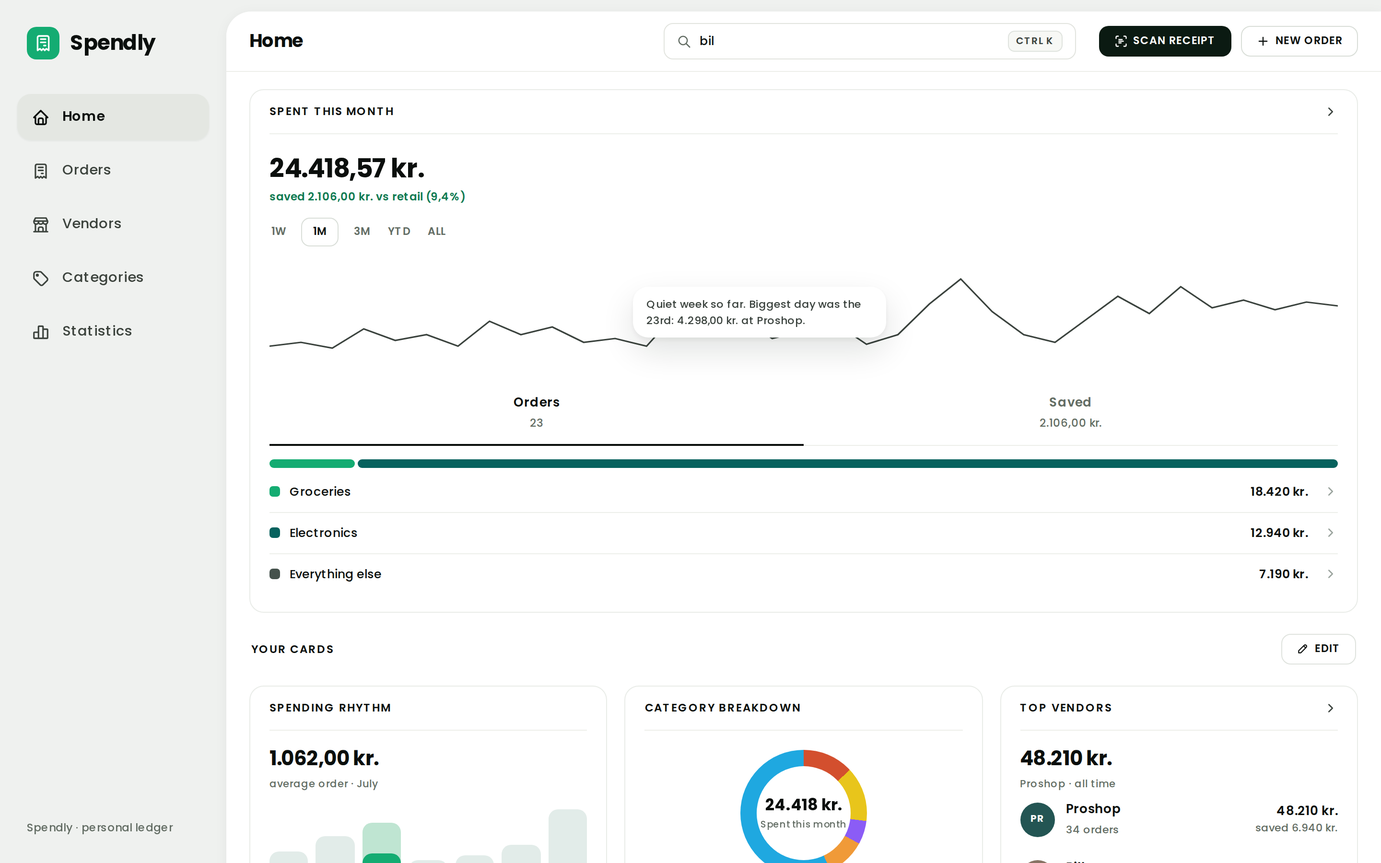
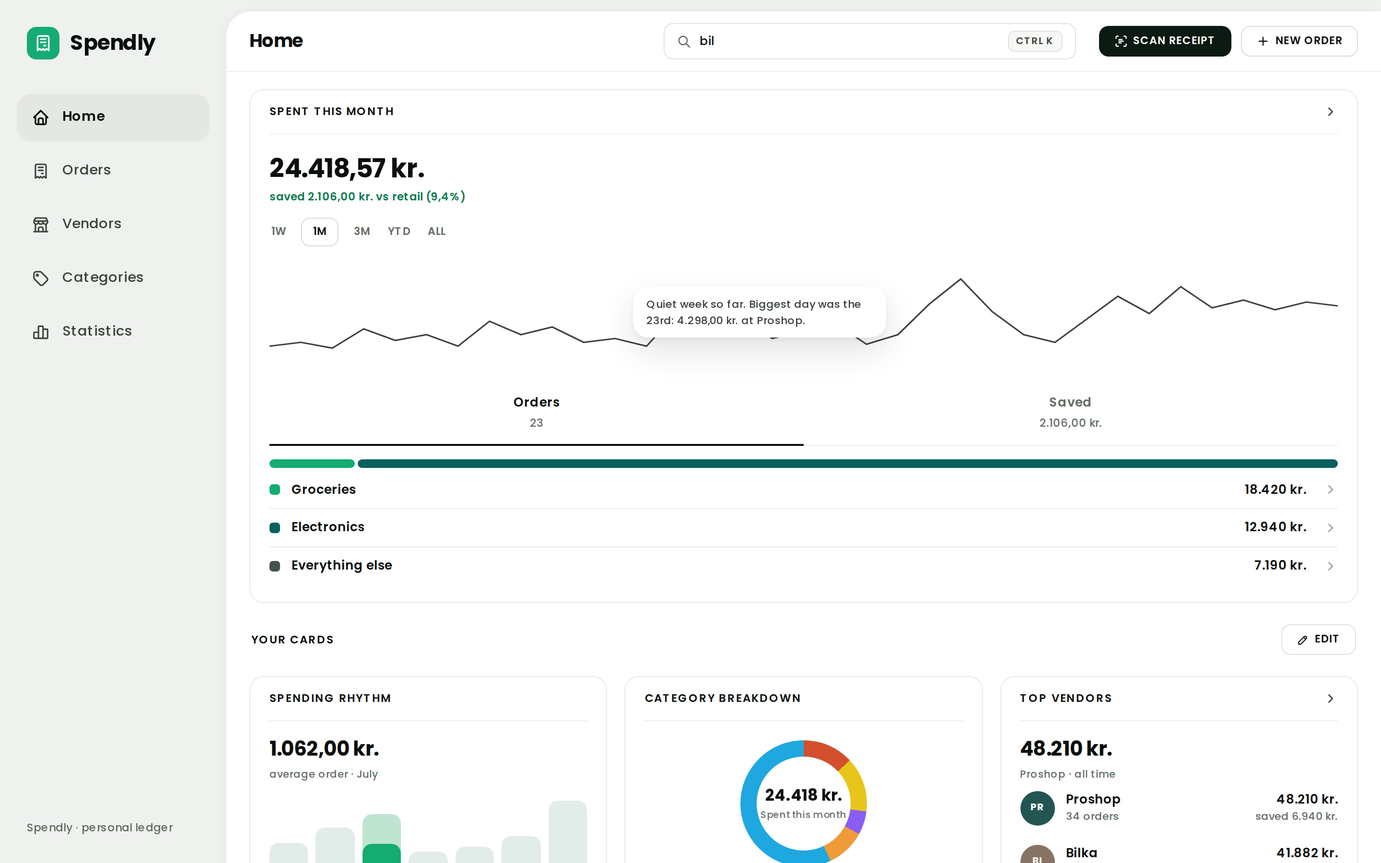
One data row: bring every list onto the Category breakdown spec
Five list families rendered the same component five ways. Measured across 15
states at 1440: gaps of 10, 12 and 13; paddings of 10, 11 and 12; tiles of 36,
40 and 44 with 16, 17 and 20px glyphs; and .entry-list-row's text pair standing
40.6px against everyone else's 34.8px -- the 5.8px that made Latest orders read
as differently spaced from Category breakdown.

.category-row is the template. The box is now written once, as one grouped
selector over .chart-legend-row, .card-tray-row, .category-row, .entry-list-row
and .item-row; each family's own block keeps only its differences. Restating
the box per family is what let them drift, so no family restates it.

- .entry-text loses line-height:1.45em. An em on a wrapper is a length computed
  once against its own inherited 14px, so a 13px name and an 11px meta were both
  struck on 20.3px leading. The unitless 1.45 falls through now: 18.85 + 15.95.
- .item-row-icon 40 -> 36 and --radius-page -> --radius-compact, glyph 16 -> 17.
  .document-thumb 44 -> 36, glyph 20 -> 17. A tile in a row is the row's tile.
- .chart-legend-row's label was the one label in the file with no element around
  it, so it took the row's 12.5px while every other list title read 13/600. It
  is .chart-legend-row-title now, 7 rows.
- .item-row-roomy deleted; its 12px padding was a fourth value for one property.

What stays a variant, per the row's own content and not its spacing: the colour
[…]

diff --git a/spendly.html b/spendly.html
@@ -268,6 +268,16 @@ a[data-go] { color:inherit; text-decoration:none; }
 .page[data-view="favourites"] [data-view-only="overview"],
 .page[data-view="manage"] [data-view-only="overview"] { display:none; }
 .card-header[data-go]:hover { background:var(--bg-row-hover); }
+/* One data row, written once. Five lists on this page are the same component -- a tile,
+   one or two lines of text, a right-hand column, sometimes a chevron -- and they had
+   drifted on every value that makes a set of lists read as one system: gaps of 10, 12
+   and 13, paddings of 10, 11 and 12, tiles of 36, 40 and 44, and a text pair 5.8px
+   taller on .entry-list-row than on the rest. Four near-misses is what four copies of
+   this declaration block buy; one grouped selector is what stops the fifth. What a row
+   still owns is what it holds, not how it is spaced -- the colour of the right-hand
+   figure, a round avatar in place of a tile, one line where another has two. README 5. */
+.chart-legend-row, .card-tray-row, .category-row, .entry-list-row, .item-row {
+	display:flex; align-items:center; gap:12px; padding:10px 0; }
 /* A row's highlight bleeds 10px past the body's 20px gutter at both ends, so the
    tint clears the first glyph and the chevron instead of stopping against them.
    The header above already lights up edge to edge; this is the same idea for a
@@ -338,11 +348,17 @@ a[data-go] { color:inherit; text-decoration:none; }
 .chart-split-bar { display:flex; gap:3px; height:9px; margin-top:14px; }
 .chart-split-bar-segment { border-radius:5px; }
 .chart-legend { margin-top:4px; }
-.chart-legend-row { display:flex; align-items:center; gap:10px; padding:12px 0; border-top:1px solid var(--border-divider); font-size:12.5px; }
+.chart-legend-row { border-top:1px solid var(--border-divider); }
 .chart-legend-row:first-child { border-top:0; }
+/* The swatch is this row's difference: a key to a plotted hue, not a tile holding a
+   glyph, so it keeps its 11px against the row spec's 36. */
 .chart-legend .chart-swatch { width:11px; height:11px; border-radius:3.5px; flex:none; }
 svg.chart { width:100%; display:block; }
-.chart-legend .amount { margin-left:auto; font-weight:600; }
+/* The label was a bare text node taking 12.5px off the row, which is how the one list
+   with no element around its own label ended up half a point under every other list's
+   title. It is a part with a name now, at the row spec's 13/600. README 5, 19. */
+.chart-legend-row-title { font-size:13px; font-weight:600; }
+.chart-legend .amount { margin-left:auto; font-size:13px; font-weight:600; }
 .chart-legend .chevron { color:var(--text-faint); margin-left:6px; }
 
 /* section head */
@@ -370,7 +386,7 @@ svg.chart { width:100%; display:block; }
 .icon-button-reorder:disabled { opacity:.35; cursor:default; }
 .icon-button-reorder.icon-button-reorder-remove { color:var(--donut-red); }
 .card-tray { margin-top:18px; }
-.card-tray-row { display:flex; align-items:center; gap:13px; padding:11px 0; border-top:1px solid var(--border-divider); }
+.card-tray-row { border-top:1px solid var(--border-divider); }
 .card-tray-row:first-child { border-top:0; }
 .card-tray-row-title { font-size:13px; font-weight:600; }
 .card-tray-row-meta { font-style:normal; font-size:11px; color:var(--text-muted); }
@@ -399,7 +415,7 @@ svg.chart { width:100%; display:block; }
 .donut .ring-centre-label { font-style:normal; font-size:9.5px; color:var(--text-muted); }
 .category-rows { margin-top:12px; display:grid; }
 .card-body > .category-rows:first-child { margin-top:0; }
-.category-row { display:flex; align-items:center; gap:12px; padding:10px 0; border-top:1px solid var(--border-divider); }
+.category-row { border-top:1px solid var(--border-divider); }
 .category-row:first-child { border-top:0; }
 .category-icon { width:36px; height:36px; border-radius:var(--radius-compact); display:grid; place-items:center; color:#fff; flex:none; }
 .category-icon svg.icon { width:17px; height:17px; stroke-width:2; }
@@ -437,24 +453,18 @@ svg.chart { width:100%; display:block; }
 .chart-series-key .chart-series-key-swatch { width:9px; height:9px; border-radius:3px; flex:none; }
 .entry-list { margin-top:8px; }
 .entry-list .list-heading { font-size:11.5px; color:var(--text-muted); font-weight:500; margin:10px 0 2px; }
-/* One row spec, not four near-misses. This row and .category-row are the same
-   component -- tile, two lines of text, an amount, sometimes a chevron -- and they had
-   drifted apart on every value they own: gap 11 against 12, padding 7 against 10, tile
-   34 against 36, and 12.5/10/12.5 type against 13/11/13. .item-row already carried
-   10px and 13/11/13 too, so the pair below is the tally and this row was the outlier.
-   S19. */
-.entry-list-row { display:flex; align-items:center; gap:12px; padding:10px 0; }
 /* The fill is written per avatar in the markup, and it is a text background, not a
    swatch -- these initials are white at 10px/700, so every value has to clear 4.5:1
    against white. Four of the seven were the donut's chart hues, which are picked to
    separate ring segments and reached 2.24:1 under type. S2, S18. */
 .entry-list .entry-avatar { width:36px; height:36px; border-radius:50%; display:grid; place-items:center; color:#fff; font-size:10px; font-weight:700; flex:none; }
-/* The name sat over the meta on a <br>, so both lines took their height from the
-   wrapper's own 14px strut. Each line is its own block now, and the inherited unitless
-   1.45 would resolve against its own font-size instead -- 40.6px of pair becomes 32.6px
-   and every row holding one lifts 8px. A length computes here once, and is what the
-   two lines inherit. S19. */
-.entry-list .entry-text { line-height:1.45em; }
+/* No line-height here. Pinning the wrapper at 1.45em computed one length off its own
+   inherited 14px -- 20.3px -- and handed it to both lines, so a 13px name and an 11px
+   meta were struck on the same 20.3px leading and the pair stood 40.6px tall. Every
+   other list lets the unitless 1.45 resolve against each line's own size, 18.85 + 15.95
+   = 34.8px, and the 5.8px was the whole of "Latest orders is spaced differently from
+   Category breakdown". The value was inherited from a <br> layout that has been gone
+   since S19; keeping it kept that layout's leading. README 5. */
 .entry-list .entry-name { font-size:13px; font-weight:600; }
 .entry-list .entry-meta { font-size:11px; color:var(--text-muted); }
 .entry-list .amount { margin-left:auto; text-align:right; font-size:13px; font-weight:600; color:var(--text-positive); white-space:nowrap; flex:none; }
@@ -482,13 +492,11 @@ svg.chart { width:100%; display:block; }
 .page.is-on { display:grid; grid-template-columns:minmax(0,1fr); gap:18px; }
 .segmented { display:inline-flex; gap:2px; padding:4px; background:#F1F2EE; border:1px solid #E5E7E2; border-radius:14px; width:max-content; }
 .inset-panel { background:#F2F4F1; border-radius:var(--radius-page); padding:8px 14px; display:grid; }
-.item-row { display:flex; align-items:center; gap:13px; padding:10px 0; }
-.item-row-roomy { padding:12px 0; }
 .item-row > div:has(.item-row-title) { min-width:0; }
 .item-row > span:not(:has(.item-row-title)) { flex:none; }
 .item-row-title, .item-row-meta { overflow-wrap:anywhere; }
-.item-row .item-row-icon { width:40px; height:40px; border-radius:var(--radius-page); background:#DFF0E6; color:#12A56B; display:grid; place-items:center; font-size:14px; font-weight:700; flex:none; }
-.item-row .item-row-icon svg.icon { width:16px; height:16px; }
+.item-row .item-row-icon { width:36px; height:36px; border-radius:var(--radius-compact); background:#DFF0E6; color:#12A56B; display:grid; place-items:center; font-size:14px; font-weight:700; flex:none; }
+.item-row .item-row-icon svg.icon { width:17px; height:17px; }
 /* The drag handle was a bare <span> styling itself, down to a var(--text-faint,#9AA39B)
    whose fallback had drifted a digit from the token it falls back to. */
 .item-row .item-row-grip { color:var(--text-faint); cursor:grab; }
@@ -605,8 +613,10 @@ svg.chart { width:100%; display:block; }
 .document-preview svg { width:46px; height:46px; stroke:currentColor; fill:none; stroke-width:1.6; stroke-linecap:round; stroke-linejoin:round; }
 .chip-status { display:inline-flex; align-items:center; gap:7px; height:28px; padding:0 12px; border-radius:9px; background:#DFF3EA; color:var(--text-positive); font-size:11.5px; font-weight:600; }
 .chip-status::before { content:""; width:6px; height:6px; border-radius:50%; background:#14AC72; }
-.document-thumb { width:44px; height:44px; border-radius:var(--radius-compact); display:grid; place-items:center; color:#7C867E; flex:none; background:#EFF3EE; }
-.document-thumb svg.icon { width:20px; height:20px; }
+/* A thumbnail in a list row is the row's tile, so it is the row spec's tile: 36 and
+   --radius-compact, not a 44px box of its own. It only ever appears inside .item-row. */
+.document-thumb { width:36px; height:36px; border-radius:var(--radius-compact); display:grid; place-items:center; color:#7C867E; flex:none; background:#EFF3EE; }
+.document-thumb svg.icon { width:17px; height:17px; }
 /* combobox: the system's replacement for every native select.
    Searchable, grouped, with a create action at the foot. */
 .combobox { position:relative; }
@@ -1030,9 +1040,9 @@ svg.icon.chevron-icon { width:14px; height:14px; }
 							<span class="chart-split-bar-segment" style="width:92%; background:var(--teal)"></span>
 						</div>
 						<div class="chart-legend">
-							<a href="#" class="chart-legend-row" data-go="orders2"><span class="chart-swatch" style="background:var(--green)"></span>Groceries<span class="amount tabular-figures">18.420 kr.</span><span class="chevron"><svg class="icon" viewBox="0 0 24 24"><path d="M9 6l6 6l-6 6"></path></svg></span></a>
-							<a href="#" class="chart-legend-row" data-go="orders2"><span class="chart-swatch" style="background:var(--teal)"></span>Electronics<span class="amount tabular-figures">12.940 kr.</span><span class="chevron"><svg class="icon" viewBox="0 0 24 24"><path d="M9 6l6 6l-6 6"></path></svg></span></a>
-							<a href="#" class="chart-legend-row" data-go="orders2"><span class="chart-swatch" style="background:#45524C"></span>Everything else<span class="amount tabular-figures">7.190 kr.</span><span class="chevron"><svg class="icon" viewBox="0 0 24 24"><path d="M9 6l6 6l-6 6"></path></svg></span></a>
+							<a href="#" class="chart-legend-row" data-go="orders2"><span class="chart-swatch" style="background:var(--green)"></span><span class="chart-legend-row-title">Groceries</span><span class="amount tabular-figures">18.420 kr.</span><span class="chevron"><svg class="icon" viewBox="0 0 24 24"><path d="M9 6l6 6l-6 6"></path></svg></span></a>
+							<a href="#" class="chart-legend-row" data-go="orders2"><span class="chart-swatch" style="background:var(--teal)"></span><span class="chart-legend-row-title">Electronics</span><span class="amount tabular-figures">12.940 kr.</span><span class="chevron"><svg class="icon" viewBox="0 0 24 24"><path d="M9 6l6 6l-6 6"></path></svg></span></a>
+							<a href="#" class="chart-legend-row" data-go="orders2"><span class="chart-swatch" style="background:#45524C"></span><span class="chart-legend-row-title">Everything else</span><span class="amount tabular-figures">7.190 kr.</span><span class="chevron"><svg class="icon" viewBox="0 0 24 24"><path d="M9 6l6 6l-6 6"></path></svg></span></a>
 						</div>
 					</div>
 				</section>
@@ -1558,10 +1568,10 @@ svg.icon.chevron-icon { width:14px; height:14px; }
 					<div class="card-header"><span class="section-label">Items · 4</span><span class="field-help tabular-figures">4.249,00 kr.</span></div>
 					<div class="card-divider"></div>
 					<div class="card-body card-body-tight">
-						<div class="item-row item-row-roomy"><span class="document-thumb" aria-hidden="true"><svg class="icon" viewBox="0 0 24 24"><path d="M15 8h.01 M3 6a3 3 0 0 1 3 -3h12a3 3 0 0 1 3 3v12a3 3 0 0 1 -3 3h-12a3 3 0 0 1 -3 -3v-12 M3 16l5 -5c.928 -.893 2.072 -.893 3 0l5 5 M14 14l1 -1c.928 -.893 2.072 -.893 3 0l3 3"></path></svg></span><div><div class="item-row-title">Dell UltraSharp U2723QE 27 tommer</div><div class="item-row-meta">1 × 3.199,00 kr.</div></div><span class="amount tabular-figures">3.199,00 kr.</span></div>
-						<div class="item-row item-row-roomy"><span class="document-thumb" aria-hidden="true"><svg class="icon" viewBox="0 0 24 24"><path d="M15 8h.01 M3 6a3 3 0 0 1 3 -3h12a3 3 0 0 1 3 3v12a3 3 0 0 1 -3 3h-12a3 3 0 0 1 -3 -3v-12 M3 16l5 -5c.928 -.893 2.072 -.893 3 0l5 5 M14 14l1 -1c.928 -.893 2.072 -.893 3 0l3 3"></path></svg></span><div><div class="item-row-title">Logitech MX Master 3S</div><div class="item-row-meta">1 × 749,00 kr. · Replaces the one that drowned in coffee</div></div><span class="amount tabular-figures">749,00 kr.</span></div>
-						<div class="item-row item-row-roomy"><span class="document-thumb" aria-hidden="true"><svg class="icon" viewBox="0 0 24 24"><path d="M15 8h.01 M3 6a3 3 0 0 1 3 -3h12a3 3 0 0 1 3 3v12a3 3 0 0 1 -3 3h-12a3 3 0 0 1 -3 -3v-12 M3 16l5 -5c.928 -.893 2.072 -.893 3 0l5 5 M14 14l1 -1c.928 -.893 2.072 -.893 3 0l3 3"></path></svg></span><div><div class="item-row-title">USB-C dock, 6 porte</div><div class="item-row-meta">1 × 249,00 kr.</div></div><span class="amount tabular-figures">249,00 kr.</span></div>
-						<div class="item-row item-row-roomy"><span class="document-thumb" aria-hidden="true"><svg class="icon" viewBox="0 0 24 24"><path d="M15 8h.01 M3 6a3 3 0 0 1 3 -3h12a3 3 0 0 1 3 3v12a3 3 0 0 1 -3 3h-12a3 3 0 0 1 -3 -3v-12 M3 16l5 -5c.928 -.893 2.072 -.893 3 0l5 5 M14 14l1 -1c.928 -.893 2.072 -.893 3 0l3 3"></path></svg></span><div><div class="item-row-title">Kabelbindere, 100 stk.</div><div class="item-row-meta">2 × 26,00 kr.</div></div><span class="amount tabular-figures">52,00 kr.</span></div>
+						<div class="item-row"><span class="document-thumb" aria-hidden="true"><svg class="icon" viewBox="0 0 24 24"><path d="M15 8h.01 M3 6a3 3 0 0 1 3 -3h12a3 3 0 0 1 3 3v12a3 3 0 0 1 -3 3h-12a3 3 0 0 1 -3 -3v-12 M3 16l5 -5c.928 -.893 2.072 -.893 3 0l5 5 M14 14l1 -1c.928 -.893 2.072 -.893 3 0l3 3"></path></svg></span><div><div class="item-row-title">Dell UltraSharp U2723QE 27 tommer</div><div class="item-row-meta">1 × 3.199,00 kr.</div></div><span class="amount tabular-figures">3.199,00 kr.</span></div>
+						<div class="item-row"><span class="document-thumb" aria-hidden="true"><svg class="icon" viewBox="0 0 24 24"><path d="M15 8h.01 M3 6a3 3 0 0 1 3 -3h12a3 3 0 0 1 3 3v12a3 3 0 0 1 -3 3h-12a3 3 0 0 1 -3 -3v-12 M3 16l5 -5c.928 -.893 2.072 -.893 3 0l5 5 M14 14l1 -1c.928 -.893 2.072 -.893 3 0l3 3"></path></svg></span><div><div class="item-row-title">Logitech MX Master 3S</div><div class="item-row-meta">1 × 749,00 kr. · Replaces the one that drowned in coffee</div></div><span class="amount tabular-figures">749,00 kr.</span></div>
+						<div class="item-row"><span class="document-thumb" aria-hidden="true"><svg class="icon" viewBox="0 0 24 24"><path d="M15 8h.01 M3 6a3 3 0 0 1 3 -3h12a3 3 0 0 1 3 3v12a3 3 0 0 1 -3 3h-12a3 3 0 0 1 -3 -3v-12 M3 16l5 -5c.928 -.893 2.072 -.893 3 0l5 5 M14 14l1 -1c.928 -.893 2.072 -.893 3 0l3 3"></path></svg></span><div><div class="item-row-title">USB-C dock, 6 porte</div><div class="item-row-meta">1 × 249,00 kr.</div></div><span class="amount tabular-figures">249,00 kr.</span></div>
+						<div class="item-row"><span class="document-thumb" aria-hidden="true"><svg class="icon" viewBox="0 0 24 24"><path d="M15 8h.01 M3 6a3 3 0 0 1 3 -3h12a3 3 0 0 1 3 3v12a3 3 0 0 1 -3 3h-12a3 3 0 0 1 -3 -3v-12 M3 16l5 -5c.928 -.893 2.072 -.893 3 0l5 5 M14 14l1 -1c.928 -.893 2.072 -.893 3 0l3 3"></path></svg></span><div><div class="item-row-title">Kabelbindere, 100 stk.</div><div class="item-row-meta">2 × 26,00 kr.</div></div><span class="amount tabular-figures">52,00 kr.</span></div>
 						<div class="card-divider" style="margin:6px 0 0"></div>
 						<div class="summary-row">Items subtotal<span class="summary-row-value tabular-figures">4.249,00 kr.</span></div>
 						<div class="summary-row">Shipping<span class="summary-row-value tabular-figures">49,00 kr.</span></div>
@@ -1975,10 +1985,10 @@ svg.icon.chevron-icon { width:14px; height:14px; }
 					<div class="card-body spend-gauge-row">
 						<div class="spend-gauge"><span class="ring-centre"><span class="ring-centre-value tabular-figures">24.418 kr.</span><span class="ring-centre-label">July 2026</span></span></div>
 						<div class="chart-legend" style="flex:1;min-width:170px">
-							<a href="#" class="chart-legend-row" data-go="orders2"><span class="chart-swatch" style="background:var(--donut-blue)"></span>Groceries<span class="amount tabular-figures">18.420 kr.</span><span class="chevron"><svg class="icon" viewBox="0 0 24 24"><path d="M9 6l6 6l-6 6"></path></svg></span></a>
-							<a href="#" class="chart-legend-row" data-go="orders2"><span class="chart-swatch" style="background:var(--green)"></span>Electronics<span class="amount tabular-figures">12.940 kr.</span><span class="chevron"><svg class="icon" viewBox="0 0 24 24"><path d="M9 6l6 6l-6 6"></path></svg></span></a>
-							<a href="#" class="chart-legend-row" data-go="orders2"><span class="chart-swatch" style="background:var(--donut-yellow)"></span>Household<span class="amount tabular-figures">6.110 kr.</span><span class="chevron"><svg class="icon" viewBox="0 0 24 24"><path d="M9 6l6 6l-6 6"></path></svg></span></a>
-							<a href="#" class="chart-legend-row" data-go="orders2"><span class="chart-swatch" style="background:var(--donut-purple)"></span>Everything else<span class="amount tabular-figures">5.550 kr.</span><span class="chevron"><svg class="icon" viewBox="0 0 24 24"><path d="M9 6l6 6l-6 6"></path></svg></span></a>
+							<a href="#" class="chart-legend-row" data-go="orders2"><span class="chart-swatch" style="background:var(--donut-blue)"></span><span class="chart-legend-row-title">Groceries</span><span class="amount tabular-figures">18.420 kr.</span><span class="chevron"><svg class="icon" viewBox="0 0 24 24"><path d="M9 6l6 6l-6 6"></path></svg></span></a>
+							<a href="#" class="chart-legend-row" data-go="orders2"><span class="chart-swatch" style="background:var(--green)"></span><span class="chart-legend-row-title">Electronics</span><span class="amount tabular-figures">12.940 kr.</span><span class="chevron"><svg class="icon" viewBox="0 0 24 24"><path d="M9 6l6 6l-6 6"></path></svg></span></a>
+							<a href="#" class="chart-legend-row" data-go="orders2"><span class="chart-swatch" style="background:var(--donut-yellow)"></span><span class="chart-legend-row-title">Household</span><span class="amount tabular-figures">6.110 kr.</span><span class="chevron"><svg class="icon" viewBox="0 0 24 24"><path d="M9 6l6 6l-6 6"></path></svg></span></a>
+							<a href="#" class="chart-legend-row" data-go="orders2"><span class="chart-swatch" style="background:var(--donut-purple)"></span><span class="chart-legend-row-title">Everything else</span><span class="amount tabular-figures">5.550 kr.</span><span class="chevron"><svg class="icon" viewBox="0 0 24 24"><path d="M9 6l6 6l-6 6"></path></svg></span></a>
 						</div>
 					</div>
 				</section>

diff --git a/README.md b/README.md
@@ -269,25 +269,48 @@ content such as photos and long values renders in list rows and panels, never in
 
 ### One data row
 
-A tile, two lines of text, an amount, sometimes a chevron. Every list of records is that row, and it
-is one spec:
+A tile, one or two lines of text, a right-hand column, sometimes a chevron. Every list of records is
+that row, and it is one spec — **`.category-row` is the template**:
 
 | | |
 | --- | --- |
 | **Row** | `padding: 10px 0`, `gap: 12px`, `align-items: center` |
-| **Tile** | 36×36, `var(--radius-compact)` |
-| **Type** | title 13px/600 · meta 11px `--text-muted` · amount 13px/600 |
+| **Tile** | 36×36, `var(--radius-compact)`, 17px glyph |
+| **Type** | title 13px/600 · meta 11px `--text-muted` · right-hand figure 13px/600 |
+| **Leading** | inherited unitless `1.45`, resolving against each line's own size — 18.85 + 15.95 = 34.8px of pair |
 
-`.category-row` and `.entry-list-row` are the same component and had drifted apart on every value
-they own — gap 12 against 11, padding 10 against 7, tile 36 against 34, and 13/11/13 type against
-12.5/10/12.5 — which reads as two components until the rows are measured side by side, and then it
-reads as neither one being decided. `.item-row` already carried 10px and 13/11/13, so two of the
-three agreed and the third was the outlier; the tile radius went the same way, `--radius-compact` in
-16 places against a literal `11px` in 4. **Count before you match**, and match the tally rather than
-the neighbour you happened to open ([ground rules](#ground-rules)).
+The spec is **written once**, as one grouped selector over `.chart-legend-row`, `.card-tray-row`,
+`.category-row`, `.entry-list-row` and `.item-row`. Four copies of a declaration block is what four
+near-misses are made of: these five had drifted to gaps of 10, 12 and 13, paddings of 10, 11 and 12,
+tiles of 36, 40 and 44, and one list's text pair standing 5.8px taller than the rest. Restating the
+box per family is what let that happen, so no family restates it.
+
+**What a row still owns is what it holds, not how it is spaced.** These are variants, not drift:
+
+- **the colour of the right-hand figure** — `--text` on most, `--text-positive` where the figure is a saving
+- **a round avatar in place of a tile** — `.entry-avatar` is initials on a fill, 36×36 at `border-radius:50%`
+- **one line where another has two**, and a swatch where another has a tile — the donut key is a
+  chart legend, so it keeps an 11px swatch and a single label
+- **a hairline between rows** — `.category-row`, `.chart-legend-row` and `.card-tray-row` carry
+  `border-top` and clear it on the first row; the two list families inside a card body do not
+
+**A bare text node is not a part, and takes the row's font-size instead of the spec's.** The donut
+key's label was the one label in the file with no element around it, so it read at the 12.5px the row
+declared for itself while every other list title read 13/600 — invisible to any rule keyed on a title
+class, because there was no title. It is `.chart-legend-row-title` now ([§19](#19-names-in-the-markup)).
+
+**A `line-height` in `em` on a wrapper is a length, and a length does not re-resolve.** `.entry-text`
+was pinned at `1.45em`, computed once against its own inherited 14px — 20.3px — and handed to both a
+13px name and an 11px meta, so the pair stood 40.6px against every other list's 34.8px. That 5.8px was
+the whole of "Latest orders is spaced differently from Category breakdown". The value was inherited
+from a `<br>` layout removed in S19; keeping it kept that layout's leading. Let the unitless `1.45`
+fall through.
 
 `.order-row` is deliberately outside this: it is the page's own table, on its own denser scale
 (13.5/11.5, `padding: 12px 0`) and stacking to `grid-template-areas` on a phone ([§15](#15-responsive-containment)).
+
+**Count before you match**, and match the tally rather than the neighbour you happened to open
+([ground rules](#ground-rules)).
 
 ## 6. Buttons
 
@@ -382,8 +405,11 @@ width (`width: max(100%, 560px)`) rather than inheriting the field's.
 What stays as text: `×` as a multiplication sign in prices ("2 × 89,95 kr."), `·` as a separator, `…`
 in truncated placeholder copy. That is typography, not iconography.
 
-**Sizes** run 12–20px by context: nav 19, form and toolbar buttons 14–15, chevrons 15, list-row tiles
-16–17, thumbnails 17–20, decorative panel marks 34–46 at stroke-width 1.6.
+**Sizes** run 12–20px by context: nav 19, form and toolbar buttons 14–15, chevrons 15, decorative
+panel marks 34–46 at stroke-width 1.6. **A list-row tile is 17**, thumbnail or not — the tile is the
+row spec's ([§5](#5-control-geometry)), so a glyph sitting in one takes the tile's size and not its
+own component's. `.item-row-icon` at 16 in a 40px tile and `.document-thumb` at 20 in a 44px one were
+two components' worth of tile geometry inside one row.
 
 > [!WARNING]
 > **Never set an icon's size in the markup.**
@@ -755,7 +781,8 @@ instance below shipped because a shape was copied from the reference without ask
   ([§10](#10-cards)): the two lines a pixel apart were the defect, not the colour match.
 - **A tight top belongs to the container, not to the row.** A row's own padding is the box its hover
   tint paints, so padding trimmed off a row to close a gap is padding the lit band loses on one side
-  and keeps on the other. `.entry-list-row` is `padding:7px 0` and the first row's top 7px was zeroed
+  and keeps on the other. `.entry-list-row` was `padding:7px 0` when this was found and is the row
+  spec's `10px 0` now ([§5](#5-control-geometry)); the first row's top 7px was zeroed
   to sit it under the card divider: the glyph in Orders' *Latest orders* then sat 3.30px below the
   band's top edge and 10.30px above its bottom, and the amount 11.23 and 18.23 — a band 7px heavier
   at the foot of the one row in the file that lights up. Take it off the container instead, where
@@ -875,7 +902,8 @@ container. Rules that follow:
   handle to 6px. Target the description (`.item-row > span:has(b)`) and give the rest `flex:none`.
 - Rows with fixed columns that cannot fit a phone stack instead — `.order-row` becomes two rows via
   `grid-template-areas`.
-- **Row content sits flush with the card's content box.** Six row types use `padding: Npx 0`; `.order-row`
+- **Row content sits flush with the card's content box.** Every row type uses `padding: Npx 0` — one
+  `10px 0` across the five that share the row spec ([§5](#5-control-geometry)); `.order-row`
   alone had `12px 6px` and sat 6px inside the header and footer above and below it. Likewise a
   trailing chevron column is `auto`, not a fixed 26px around a 15px glyph, or the row stops short of
   the card edge.
@@ -1054,8 +1082,12 @@ Three kinds of name, and the shape of the name tells you which one you are looki
 - **A base is only worth having when the variants share more than they override.** The four chips
   share two declarations and differ on eight, so they stay four components. Forcing a base there
   would make four different badges look like one family, which is a worse lie than the duplication.
-  The six row components fail the same test: `display:flex` and `align-items:center` are all they
-  share, against gaps of 10/11/12/13, paddings of 7/10/11/12 and a hairline four of them do not have.
+  The row components used to fail the same test and no longer do — `display:flex`,
+  `align-items:center`, one gap and one padding is the whole of the box, and five of the six now
+  agree on all four ([§5](#5-control-geometry)). The test is worth re-running when a family is
+  edited, in both directions: what these five override is now a fill, a shape and a line count, and
+  a shared row spec earns its place exactly while that stays true. `.order-row` still fails it, and
+  stays out.
 - **A part carries its identifier in its name, not just in its selector.** `.entry-list-row`, never
   `.entry-list .row` -- the tally is 103 parts written bare against 47 scoped. A generic child name
   cannot be grepped: `class="row"` was 22 elements across two unrelated components that disagreed on

diff --git a/CLAUDE.md b/CLAUDE.md
@@ -84,6 +84,21 @@ and 49,584 removed for a change that moved nothing. Both runs hold the same elem
 order; number them in `querySelectorAll('*')` order, skip the element you inserted, and assert the
 tag matches at each position — the same walk then read 238 rect diffs, all in one place.
 
+Document order is not immune to the same trap, only cheaper to fix: seven `<span>`s wrapped around
+seven bare labels renumbered the tail of every state they appear in, and the walk came back with
+45,223 tag mismatches, 245 added and 6,285 text diffs on a change that touched five CSS rules. The
+tag assertion is what says so — an index diff with no tag check would have reported those 45,223 as
+geometry. Filter the inserted selector out of the record on both runs (`SKIP='.new-part'`) and the
+numbering realigns; the same walk then read 0 added, 0 removed, 0 tag mismatches and 0 text diffs.
+Skipping is safe only because the elements are new on one side; never skip an element that exists in
+both runs, or the diff stops covering it.
+
+**Freeze before you wait, not after.** The settle loop and the freeze are both required and the order
+between them is not free: a wait-for-stable-geometry loop started before the freeze samples the
+indeterminate progress bar forever and never returns. It does not fail — it hangs, with a browser
+open and nothing on stdout, which reads as "the walk is slow" for as long as you let it. Freeze,
+then settle, then freeze again for anything the settle woke.
+
 **Prove the harness is quiet before you trust its diff.** Freezing animations is not the whole of it:
 charts are drawn from JS and redrawn by a `ResizeObserver` when a hidden page is shown, and that
 callback lands after the click returns. Measuring straight after navigating raced it — two runs of a
@@ -159,6 +174,13 @@ machine, and check `docs/` only for the states and the sizes. When a change does
 where it was regenerated — a shot re-rendered elsewhere carries that machine's text with it, so the
 committed image changes far more than the edit did.
 
+**So measure the floor rather than assuming it.** The container that renders these shots is not
+always the wrong container: Chromium 141.0.7390.37 under the Playwright 1.56.1 bundle rendered the
+untouched file at 0 of 5,184,000 against all three committed shots, and a regeneration from there
+carries only the edit. One run of the unchanged file against `docs/` is what tells you which case you
+are in, and it costs a minute — claiming a shot is clean, and claiming it is unusable, are the same
+unverified claim in opposite directions.
+
 ## Uniformity
 
 Before adding a variant, grep for the pattern and match the tally, not the one neighbour in view. The
@@ -175,6 +197,20 @@ native icon nobody had looked at in a while.
 markup lines here carry several elements each, so a third of the job was invisible to the count that
 opened it. `grep -o 'pattern' file | wc -l` is the number of occurrences; `grep -c` is the number of
 lines holding at least one. Any tally that decides scope needs the first.
+
+**A shared value has to be deleted from every copy, not set in one more place.** Unifying five row
+families meant the grouped rule and then removing `display`, `align-items`, `gap` and `padding` from
+each family's own block — a rule added beside four survivors is a fifth near-miss with better
+intentions, and the cascade hides it wherever the two happen to agree. Read the count back
+(`document.querySelectorAll(sel).length` against the union of the families) and check the survivors
+declare only their differences.
+
+**Removing a declaration hands the property back to whatever was underneath.** `.chart-legend-row`
+lost its `font-size:12.5px` and the row went to the inherited 14px, which reached the swatch, the
+chevron, the icon and its path — 245 elements' worth of computed-style diff, all of it inert, since
+every one of those is sized in px. Inert is not the same as intended: the same removal is what left
+the label at 14px until it was given a part of its own. Diff the computed styles either side and
+account for every property that moved, including the ones that changed nothing.
 
 **A new selector is a claim about how many elements it matches.** Moving 409 declarations into the
 stylesheet meant writing about thirty rules, and three reached further than intended — `.inset-panel
